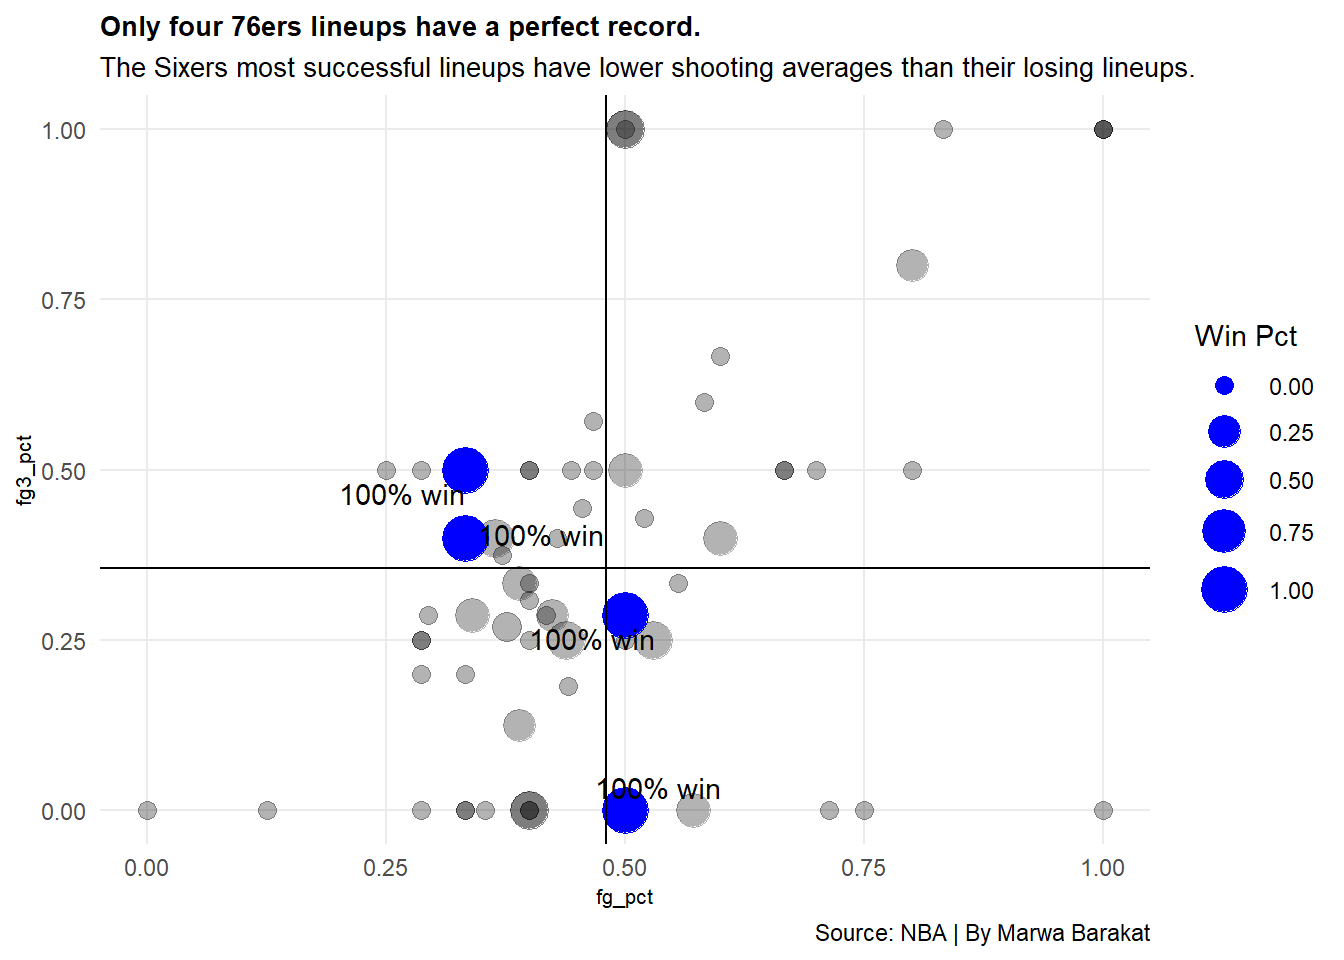
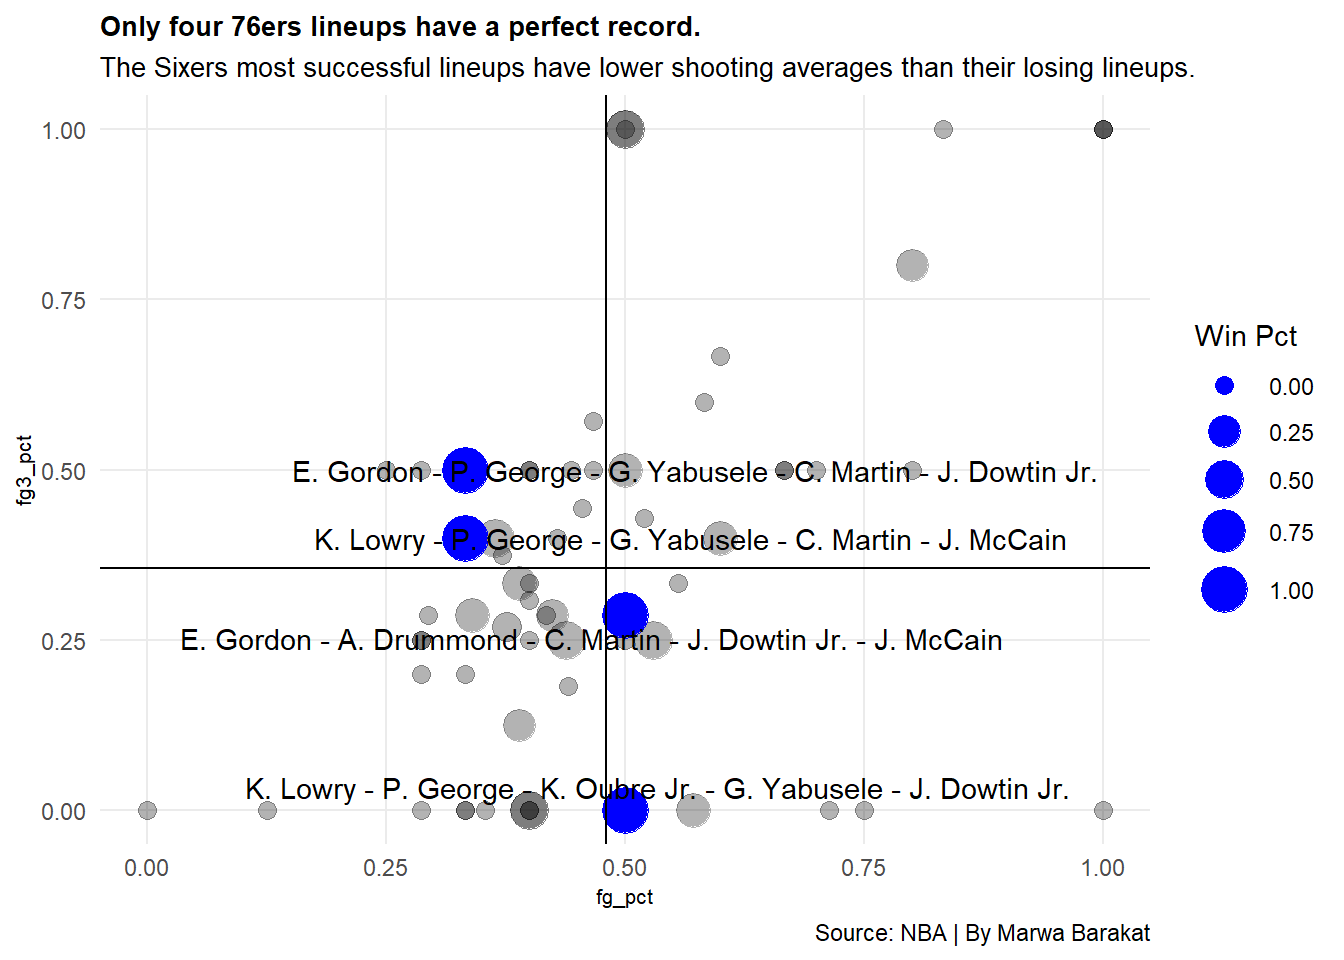
update sixers

diff --git a/docs/posts/nba-lineups/index.html b/docs/posts/nba-lineups/index.html
@@ -272,7 +272,7 @@ pre > code.sourceCode > span > a:first-child::before { text-decoration: underlin
 <span id="cb12-12"><a href="#cb12-12" aria-hidden="true" tabindex="-1"></a>  <span class="fu">geom_hline</span>(<span class="at">yintercept =</span> <span class="fl">0.3558529</span>) <span class="sc">+</span></span>
 <span id="cb12-13"><a href="#cb12-13" aria-hidden="true" tabindex="-1"></a>  <span class="fu">geom_text_repel</span>(</span>
 <span id="cb12-14"><a href="#cb12-14" aria-hidden="true" tabindex="-1"></a>    <span class="at">data=</span>current_phil_top, </span>
-<span id="cb12-15"><a href="#cb12-15" aria-hidden="true" tabindex="-1"></a>    <span class="fu">aes</span>(<span class="at">x=</span>fg_pct, <span class="at">y=</span>fg3_pct, <span class="at">label=</span><span class="st">'100% win'</span>)</span>
+<span id="cb12-15"><a href="#cb12-15" aria-hidden="true" tabindex="-1"></a>    <span class="fu">aes</span>(<span class="at">x=</span>fg_pct, <span class="at">y=</span>fg3_pct, <span class="at">label=</span>group_name)</span>
 <span id="cb12-16"><a href="#cb12-16" aria-hidden="true" tabindex="-1"></a>  ) <span class="sc">+</span></span>
 <span id="cb12-17"><a href="#cb12-17" aria-hidden="true" tabindex="-1"></a>  <span class="fu">labs</span>(<span class="at">title=</span><span class="st">"Only four 76ers lineups have a perfect record."</span>, <span class="at">subtitle=</span><span class="st">"The Sixers most successful lineups have lower shooting averages than their losing lineups."</span>, <span class="at">caption=</span><span class="st">"Source: NBA | By Marwa Barakat"</span>)  <span class="sc">+</span> <span class="fu">theme_minimal</span>() <span class="sc">+</span> </span>
 <span id="cb12-18"><a href="#cb12-18" aria-hidden="true" tabindex="-1"></a>  <span class="fu">theme</span>(</span>
@@ -280,7 +280,7 @@ pre > code.sourceCode > span > a:first-child::before { text-decoration: underlin
 <span id="cb12-20"><a href="#cb12-20" aria-hidden="true" tabindex="-1"></a>    <span class="at">axis.title =</span> <span class="fu">element_text</span>(<span class="at">size =</span> <span class="dv">8</span>), </span>
 <span id="cb12-21"><a href="#cb12-21" aria-hidden="true" tabindex="-1"></a>    <span class="at">plot.subtitle =</span> <span class="fu">element_text</span>(<span class="at">size=</span><span class="dv">10</span>), </span>
 <span id="cb12-22"><a href="#cb12-22" aria-hidden="true" tabindex="-1"></a>    <span class="at">panel.grid.minor =</span> <span class="fu">element_blank</span>()</span>
-<span id="cb12-23"><a href="#cb12-23" aria-hidden="true" tabindex="-1"></a>    )</span></code><button title="Copy to Clipboard" class="code-copy-button"><i class="bi"></i></button></pre></div>
+<span id="cb12-23"><a href="#cb12-23" aria-hidden="true" tabindex="-1"></a>    ) </span></code><button title="Copy to Clipboard" class="code-copy-button"><i class="bi"></i></button></pre></div>
 </details>
 <div class="cell-output-display">
 <div>

diff --git a/docs/index.html b/docs/index.html
@@ -205,7 +205,7 @@ window.Quarto = {
 
 <div class="quarto-listing quarto-listing-container-default" id="listing-listing">
 <div class="list quarto-listing-default">
-<div class="quarto-post image-right" data-index="0" data-listing-date-sort="1732078800000" data-listing-file-modified-sort="1732142988761" data-listing-date-modified-sort="NaN" data-listing-reading-time-sort="2" data-listing-word-count-sort="322">
+<div class="quarto-post image-right" data-index="0" data-listing-date-sort="1732078800000" data-listing-file-modified-sort="1732149137405" data-listing-date-modified-sort="NaN" data-listing-reading-time-sort="2" data-listing-word-count-sort="322">
 <div class="thumbnail">
 <p><a href="./posts/nba-lineups/index.html" class="no-external"></a></p><a href="./posts/nba-lineups/index.html" class="no-external">
 <p class="card-img-top"><img src="posts\nba-lineups\index_files\figure-html\unnamed-chunk-1-1.png"  class="thumbnail-image card-img"/></p>
